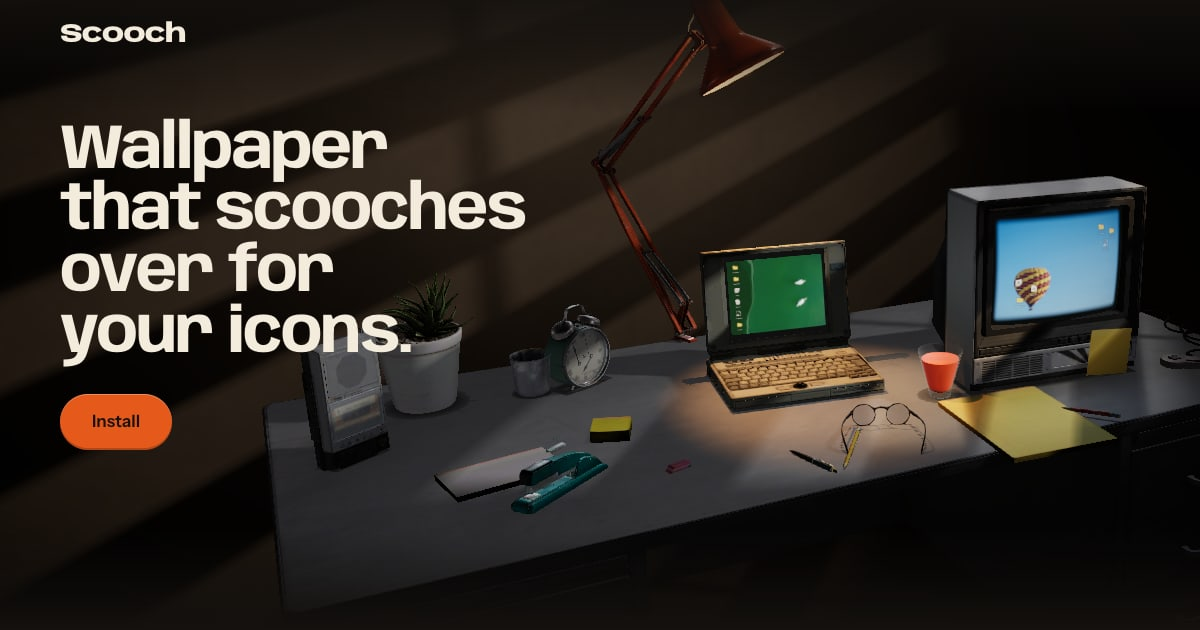
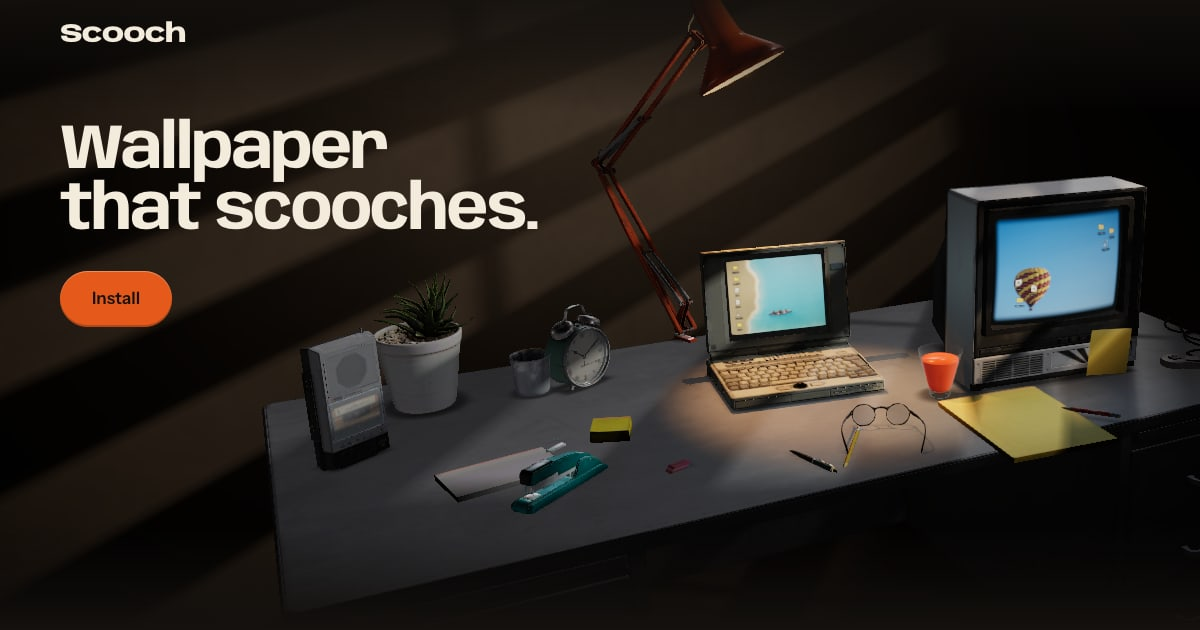
Shorten the hero headline

diff --git a/site/index.html b/site/index.html
@@ -18,10 +18,10 @@
     <meta property="og:title" content="Scooch moves your wallpaper out from under your icons" />
     <meta property="og:description" content="Scooch moves your own wallpaper so desktop icons stay off the best part of the picture. It works with any image on macOS, Windows and Linux." />
     <meta property="og:url" content="https://sohanbhat.me/scooch/" />
-    <meta property="og:image" content="https://sohanbhat.me/scooch/share.jpg?v=2" />
+    <meta property="og:image" content="https://sohanbhat.me/scooch/share.jpg?v=3" />
     <meta property="og:image:width" content="1200" />
     <meta property="og:image:height" content="630" />
-    <meta property="og:image:alt" content="An old beige laptop on a metal desk under an orange lamp, next to the words Wallpaper that scooches over for your icons." />
+    <meta property="og:image:alt" content="An old beige laptop on a metal desk under an orange lamp, next to the words Wallpaper that scooches." />
     <meta name="twitter:card" content="summary_large_image" />
     <script type="application/ld+json">{"@context":"https://schema.org","@type":"SoftwareSourceCode","name":"Scooch","url":"https://sohanbhat.me/scooch/","codeRepository":"https://github.com/sohan-bhat/scooch","author":{"@type":"Person","@id":"https://sohanbhat.me/#person","name":"Sohan Bhat","url":"https://sohanbhat.me/"}}</script>
     <script>document.documentElement.classList.add('js');try{var c=document.createElement('canvas');c.width=c.height=1;var g=c.getContext('webgl2')||c.getContext('webgl');if(!g||/[?&]stills/.test(location.search))document.documentElement.classList.add('stills-mode')}catch(e){document.documentElement.classList.add('stills-mode')}</script>

diff --git a/site/sources/index.html b/site/sources/index.html
@@ -18,10 +18,10 @@
     <meta property="og:title" content="Sources for Scooch" />
     <meta property="og:description" content="Every model, picture, icon and typeface on the Scooch website, with its author and license." />
     <meta property="og:url" content="https://sohanbhat.me/scooch/sources/" />
-    <meta property="og:image" content="https://sohanbhat.me/scooch/share.jpg?v=1" />
+    <meta property="og:image" content="https://sohanbhat.me/scooch/share.jpg?v=3" />
     <meta property="og:image:width" content="1200" />
     <meta property="og:image:height" content="630" />
-    <meta property="og:image:alt" content="An old beige laptop on a metal desk under an orange lamp, next to the words Wallpaper that scooches over for your icons." />
+    <meta property="og:image:alt" content="An old beige laptop on a metal desk under an orange lamp, next to the words Wallpaper that scooches." />
     <meta name="twitter:card" content="summary_large_image" />
     <script>document.documentElement.classList.add('js')</script>
   </head>

diff --git a/site/404.html b/site/404.html
@@ -16,10 +16,10 @@
     <meta property="og:title" content="Page not found on Scooch" />
     <meta property="og:description" content="This page moved out of the way." />
     <meta property="og:url" content="https://sohanbhat.me/scooch/" />
-    <meta property="og:image" content="https://sohanbhat.me/scooch/share.jpg?v=1" />
+    <meta property="og:image" content="https://sohanbhat.me/scooch/share.jpg?v=3" />
     <meta property="og:image:width" content="1200" />
     <meta property="og:image:height" content="630" />
-    <meta property="og:image:alt" content="An old beige laptop on a metal desk under an orange lamp, next to the words Wallpaper that scooches over for your icons." />
+    <meta property="og:image:alt" content="An old beige laptop on a metal desk under an orange lamp, next to the words Wallpaper that scooches." />
     <meta name="twitter:card" content="summary_large_image" />
     <script>document.documentElement.classList.add('js')</script>
   </head>

diff --git a/site/src/home/Beats.tsx b/site/src/home/Beats.tsx
@@ -38,7 +38,7 @@ export function Beats({ refs }: { refs: React.RefObject<HTMLElement[]> }) {
   return (
     <div className="beats page-gutter pointer-events-none absolute inset-0 z-10" data-pending="">
       <div className="relative h-full w-full">
-        <div ref={keep(0)} data-overlay="hero" className={`${overlay} wide:top-[19vh] wide:left-0 wide:w-[min(40vw,36rem)]`}>
+        <div ref={keep(0)} data-overlay="hero" className={`${overlay} wide:top-[19vh] wide:left-0 wide:w-[min(46vw,40rem)]`}>
           <Hero live />
         </div>
         <ol className="sr-only">

diff --git a/site/src/styles/tokens.css b/site/src/styles/tokens.css
@@ -17,7 +17,7 @@
   --font-text: "Instrument Sans Variable", "Helvetica Neue", Arial, sans-serif;
   --font-mono: "Martian Mono Variable", ui-monospace, monospace;
 
-  --text-hero: clamp(2.5rem, 1rem + 3.9vw, 5.2rem);
+  --text-hero: clamp(min(2.5rem, 11.4vw), 1rem + 3.9vw, 5.2rem);
   --text-beat: clamp(2.1rem, 1rem + 2.5vw, 3.9rem);
   --text-support: clamp(1.125rem, 1rem + 0.4vw, 1.4rem);
   --text-fact: clamp(1.75rem, 1.1rem + 2.4vw, 3.4rem);
